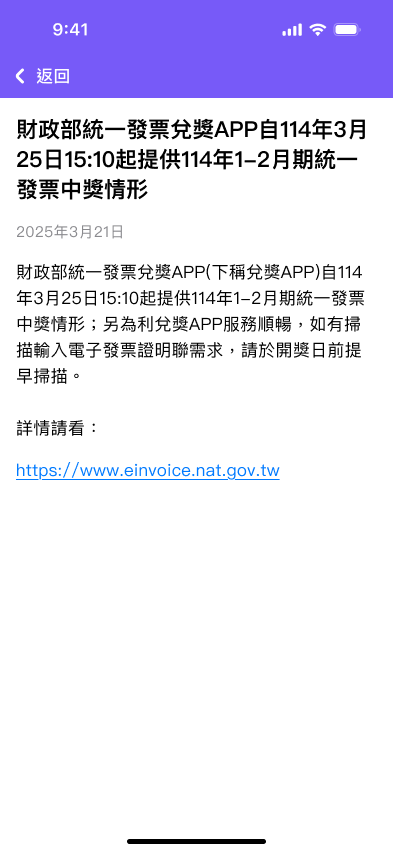
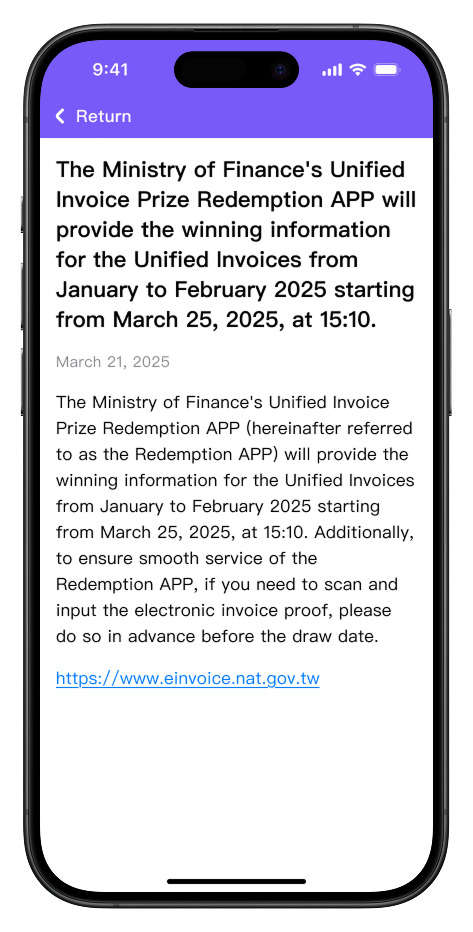
Government backend: frameless app shots for list/detail, new notification assets
- Replace PhoneMockup with FlatAppShot (uniform + frameless) for list and detail
- Update app-notification-list.png and app-notification-detail.png

Made-with: Cursor

diff --git a/app/case-studies/government-backend/page.tsx b/app/case-studies/government-backend/page.tsx
@@ -1,10 +1,6 @@
 import type { ReactNode } from "react";
 import Link from "next/link";
-import {
-  FlatAppShot,
-  PhoneMockup,
-  WideFigure,
-} from "../e-invoice-app/EInvoiceFigures";
+import { FlatAppShot, WideFigure } from "../e-invoice-app/EInvoiceFigures";
 
 export const metadata = {
   title: "Role-Based Government Backend (600+ Staff) | Angela Yang",
@@ -212,14 +208,16 @@ export default function GovernmentBackendCaseStudy() {
                     alt="App: push notification on lock screen triggered by backend settings"
                     label="App · Push notification (triggered by backend)"
                   />
-                  <PhoneMockup
+                  <FlatAppShot
                     uniform
+                    frameless
                     src={ASSET("app-notification-list.png")}
                     alt="App: notification center list"
                     label="App · Notification center list"
                   />
-                  <PhoneMockup
+                  <FlatAppShot
                     uniform
+                    frameless
                     src={ASSET("app-notification-detail.png")}
                     alt="App: notification detail screen"
                     label="App · Notification Detail"
